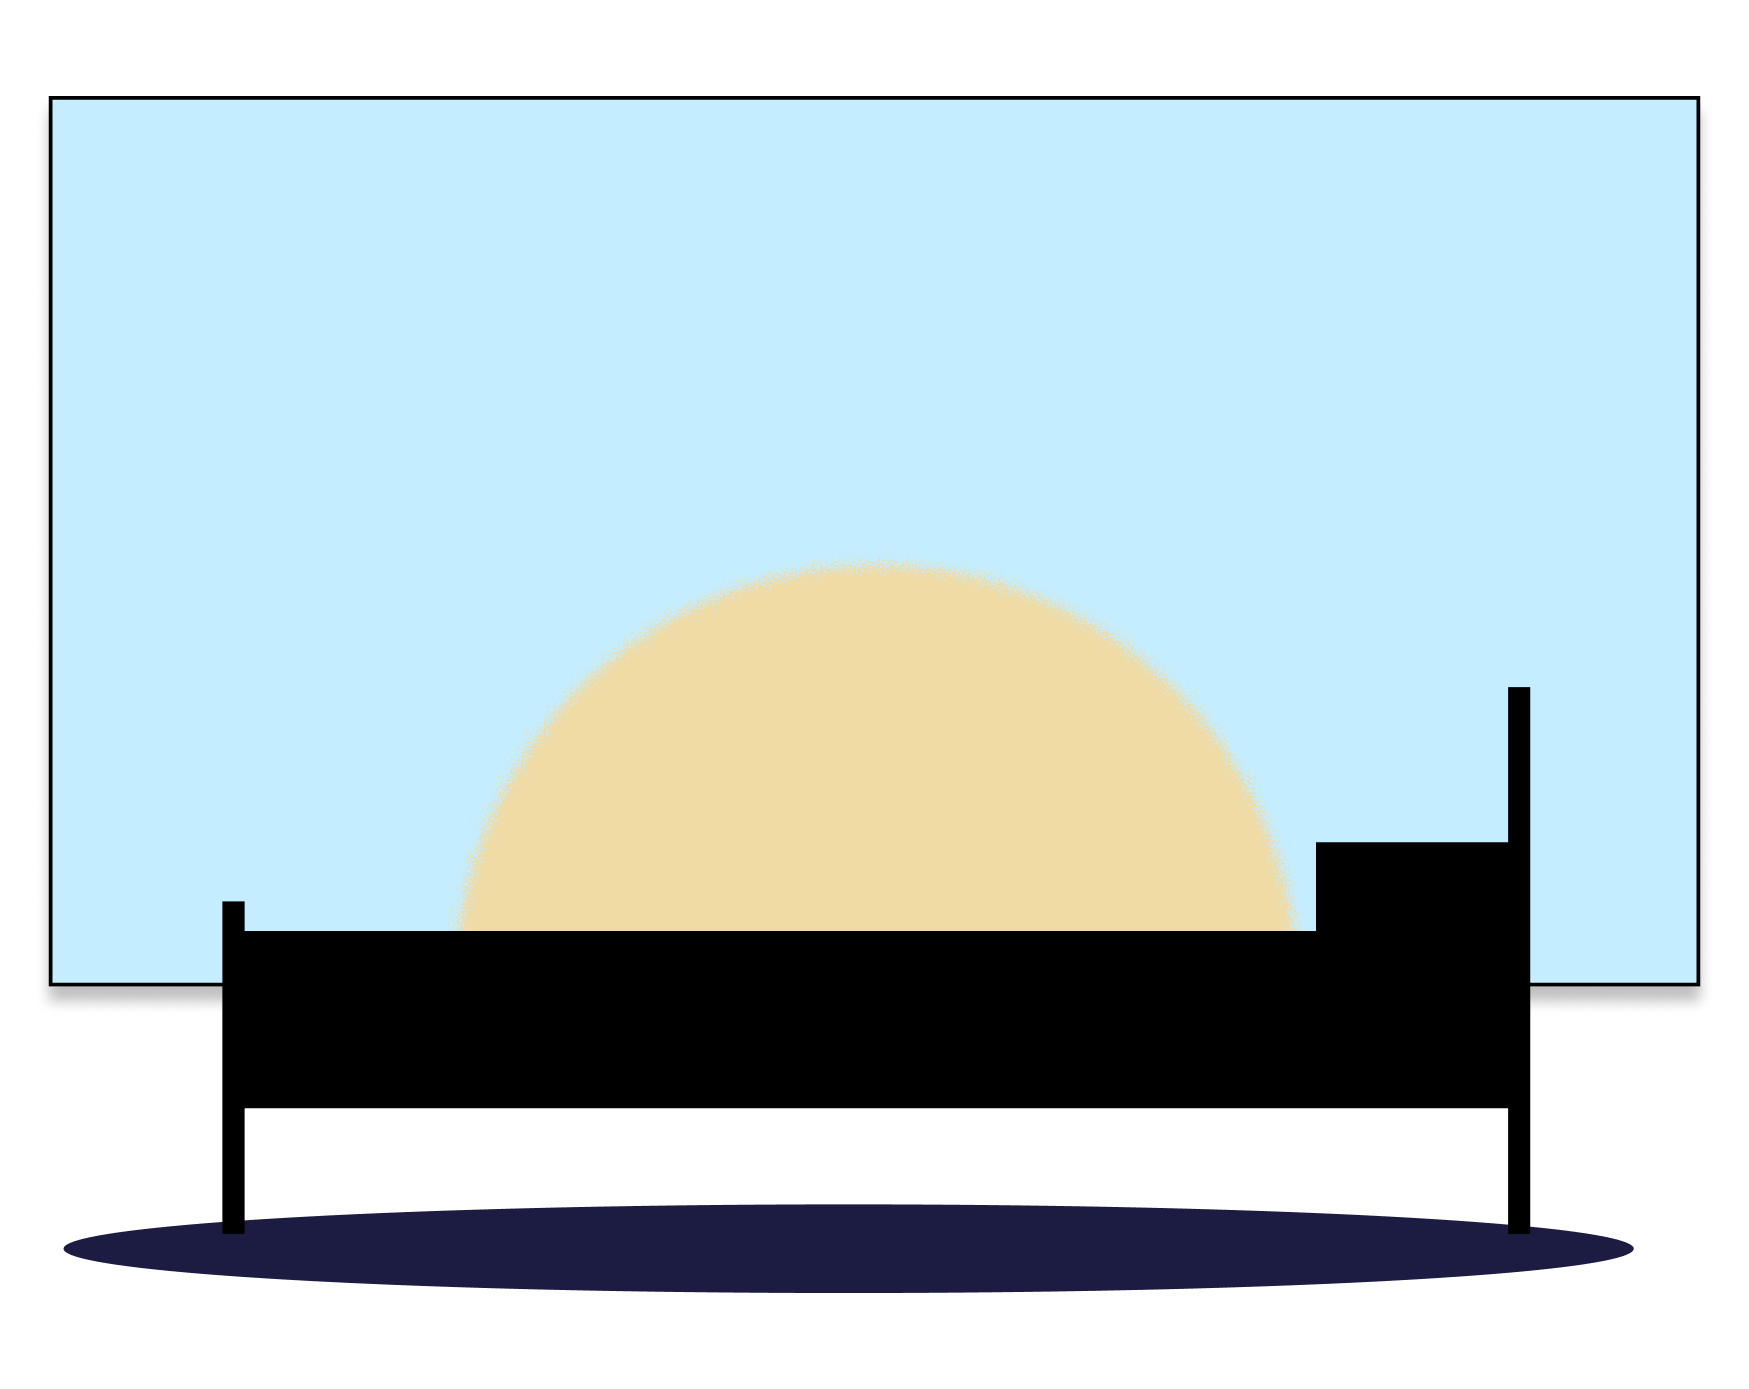
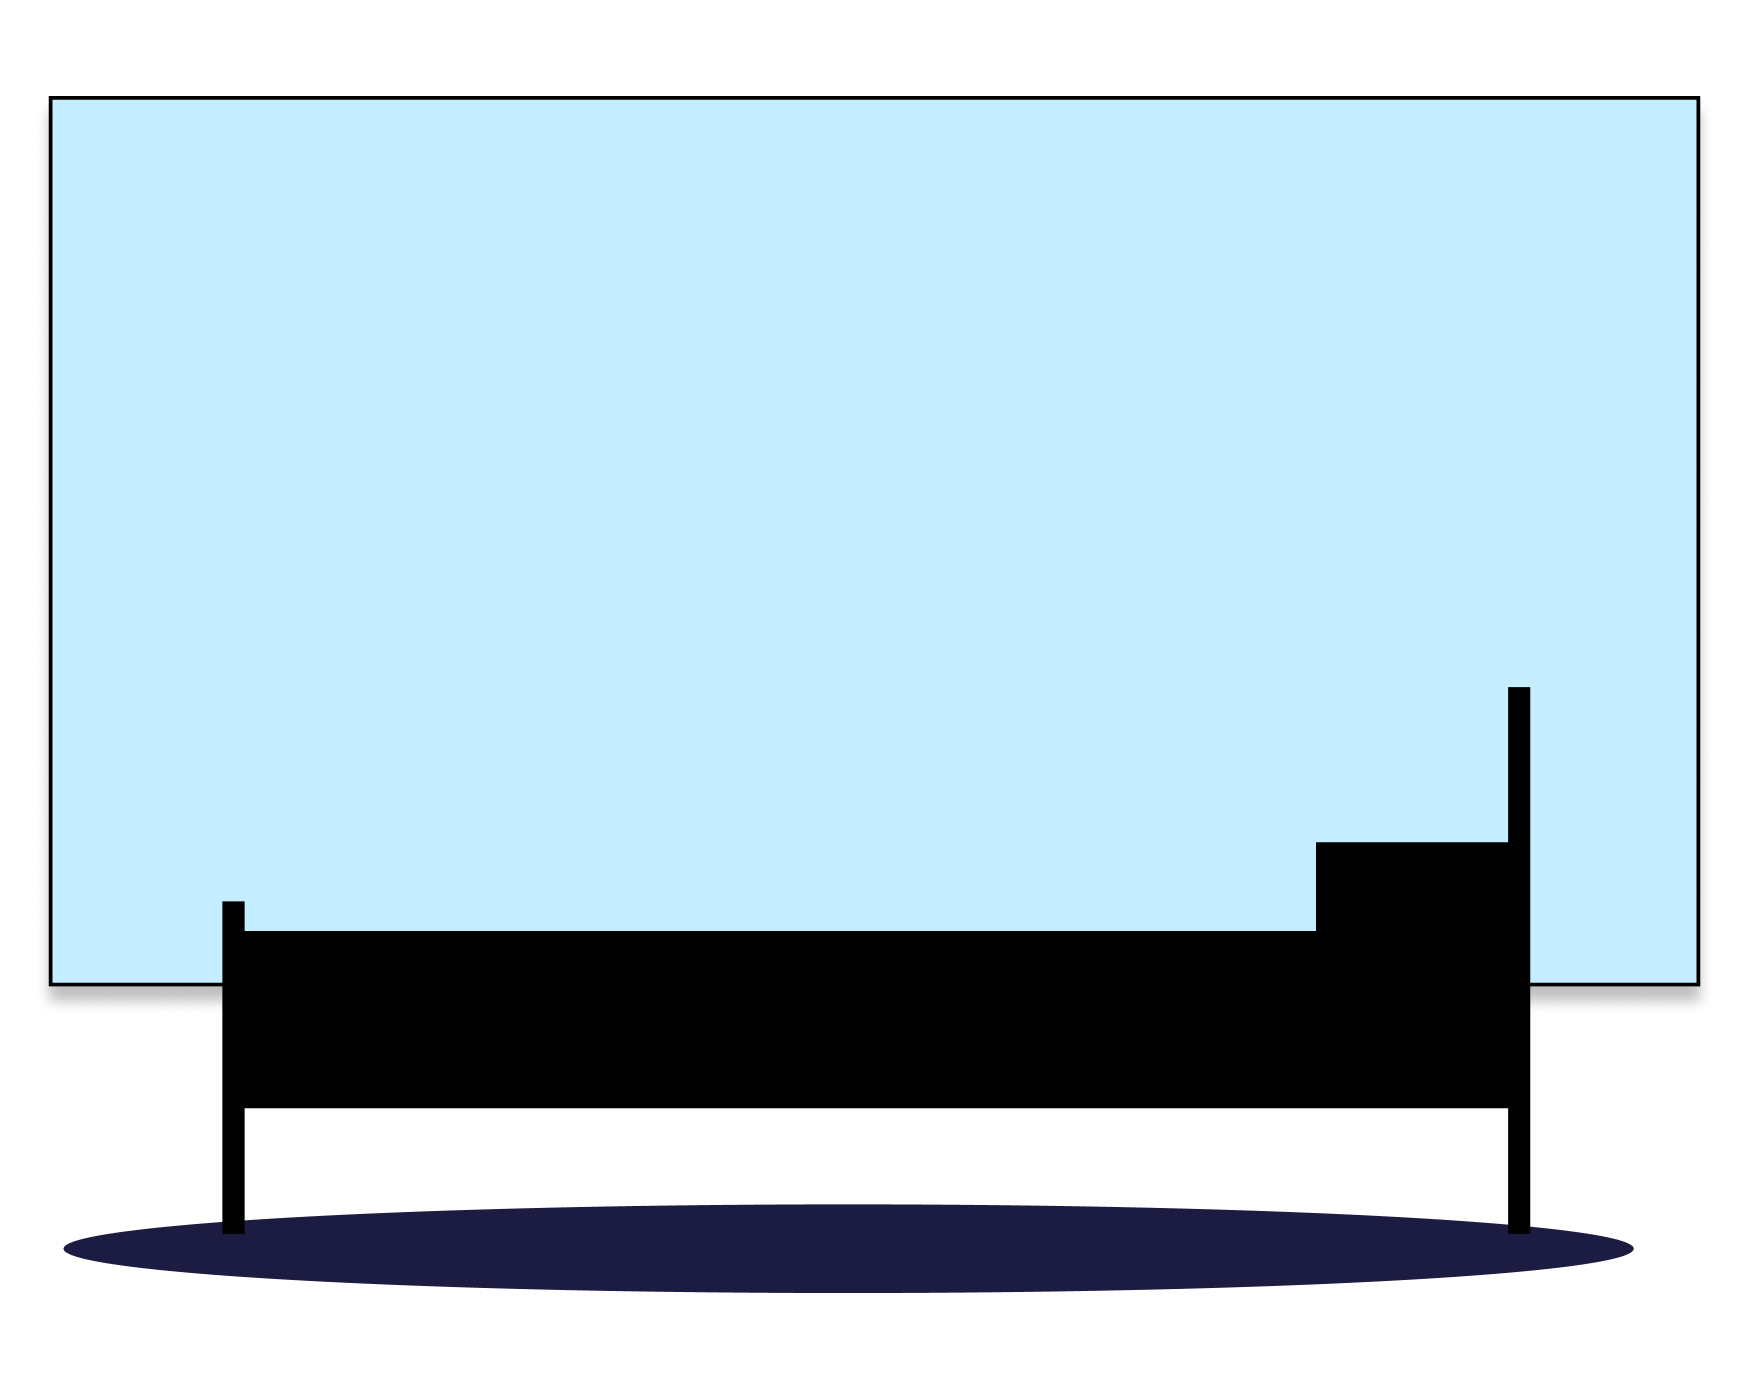
more progress

Changed region(s): [[0.247, 0.4024, 0.741, 0.6811]]

diff --git a/final project/script.js b/final project/script.js
@@ -1,13 +1,33 @@
-// import loadData from "./load_data";
 
-// async function main() {
-//     const data = await loadData();
-//     console.log(data);
-// }
-// main();
+let sunsets =[];
+let sunrises =[];
+let daylengths =[];
 
-//change background color
+async function loadData() {
+  try {
+    console.log("loading data...");
+    const response = await fetch('data.json');
+    if (!response.ok)
+      throw new Error(`HTTP error! status: ${response.status}`)
+
+    const result = await response.json();
+    sunsets = result.map(item => item.sunset);
+    sunrises = result.map(item => item.sunrise);
+    daylengths = result.map(item => item.daylength);
+
+    console.log("data loaded", result);
+    return result;
+  
+} catch (error) {
+    statusDisplay.className = 'status-display error';
+    console.error(error);
+}
+}
+
 gsap.registerPlugin(ScrollTrigger);
+
+(async () => {
+  await loadData();
 
 //INTRO
 gsap.to(".intro", {
@@ -49,19 +69,7 @@ gsap.to(".intro3", {
   duration: 5
 }, 0);
 
-// gsap.to(".intro4", {
-//   scrollTrigger:{
-//     trigger: ".intro4",
-//     start: "center center",
-//     end: "bottom top",
-//     pin: true,
-//     scrub: true,
-//     markers: true
-//   },
-//   x: 2000,
-//   duration: 5
-// }, 0);
-
+//change background color
 gsap.timeline({
   scrollTrigger: {
     trigger: ".intro-section",
@@ -81,6 +89,63 @@ gsap.timeline({
   duration:1
 }, 1);
 
+//SUNSET TIME SCROLL
+const sunsetText = document.querySelector('.time-text');
+
+if (sunsetText && sunsets.length > 0) {
+  sunsetText.textContent = sunsets[0];
+  let currentIndex = 0; 
+
+  const sunImage = document.querySelector('.sun-image');
+  const sunHeight = sunImage ? sunImage.offsetHeight : 450; 
+
+  gsap.timeline({
+    scrollTrigger: {
+      trigger: ".intro4", 
+      start: "top top",
+      end: `+=${sunsets.length * 100}%`,        
+      pin: true,
+      scrub: 1,
+      markers: true,
+      onUpdate: (self) => {
+        // TIME CHANGING
+        const newIndex = Math.min(
+          Math.floor(self.progress * sunsets.length),
+          sunsets.length - 1
+        );
+        
+        if (newIndex !== currentIndex) {
+          gsap.to(sunsetText, {
+            y: -50,
+            opacity: 0,
+            duration: 0.1,
+            ease: "power2.in",
+            onComplete: () => {
+              sunsetText.textContent = sunsets[newIndex];
+              gsap.set(sunsetText, { y: 50, opacity: 0 });
+              gsap.to(sunsetText, {
+                y: 0,
+                opacity: 1,
+                duration: 0.1,
+                ease: "power2.out"
+              });
+            }
+          });
+          currentIndex = newIndex; 
+        }
+
+        // SUN CLIPPING AND MOVEMENT 
+        const progress = self.progress;
+        const pixelsMoved = progress * sunHeight; 
+        
+        gsap.set(".sun-image", {
+          y: pixelsMoved,
+          clipPath: `inset(0 0 ${pixelsMoved}px 0)` 
+        });
+      } 
+    }
+  });
+}
 
 //NO CHOICE PAGE
 function splitText1(selector) {
@@ -150,3 +215,50 @@ gsap.timeline({
   opacity: 1,
   duration: 0
 }, 0.9);
+
+})();
+
+
+// const sunsetText = document.querySelector('.time-text');
+
+// if (sunsetText && sunsets.length > 0) {
+//   sunsetText.textContent = sunsets[0];
+//   let currentIndex = 0; 
+
+//   gsap.to({}, {
+//     scrollTrigger: {
+//       trigger: ".intro4", 
+//       start: "top top",
+//       end: `+=${sunsets.length * 100}%`,        
+//       pin: true,
+//       scrub: 1,
+//       markers: true,
+//       onUpdate: (self) => {
+//         const newIndex = Math.min(
+//           Math.floor(self.progress * sunsets.length),
+//           sunsets.length - 1
+//         );
+        
+//         if (newIndex !== currentIndex) {
+//           gsap.to(sunsetText, {
+//             y: -50,
+//             opacity: 0,
+//             duration: 0.1,
+//             ease: "power2.in",
+//             onComplete: () => {
+//               sunsetText.textContent = sunsets[newIndex];
+//               gsap.set(sunsetText, { y: 50, opacity: 0 });
+//               gsap.to(sunsetText, {
+//                 y: 0,
+//                 opacity: 1,
+//                 duration: 0,
+//                 ease: "power2.out"
+//               });
+//             }
+//           });
+//           currentIndex = newIndex; 
+//         }
+//       } 
+//     } 
+//   }); 
+// }

diff --git a/final project/index.html b/final project/index.html
@@ -38,10 +38,12 @@
             <div class="image-container">
                 <div class="container">
                     <img src="sunset-icon.png" class="sunset-image">
-                    <p class="time-text">5:23 pm</p>
+                    <p class="time-text"><span class="time-text">5:23 pm</span></p>
                 </div>
-                
-                <img src="bed.png" class="intro4-image">
+                <div class="bed-container">
+                    <img src="bed.png" class="intro4-image">
+                    <img src="sun.png" class="sun-image">
+                </div>
                 <p class="sucks-text"> and it sucks </p>
             </div>
         </div>

diff --git a/final project/style.css b/final project/style.css
@@ -155,15 +155,20 @@ body {
     position: absolute;
     color:#fff;
     left: 50px;
-    bottom: 50px;
+    bottom: 40%;
 }
 
 .time-text{
-    /* position: absolute; */
+    position: relative;
+    overflow: hidden;
     color:#807DFF;
     /* left: 50%;
     top: -25px; */
     font-family: 'digital-clock-font', monospace;
+    display: inline-block;
+    min-width: 100px;
+    text-align: center;
+
 }
 
 .sunset-image{
@@ -176,4 +181,13 @@ body {
 
 .whatif-text{
     top: 20%;
+}
+
+.sun-image{
+    width: 400px;
+    height: auto;
+    position: absolute;
+    right: 37%;
+    top: 29%;
+    transform: translateY(100%);
 }
